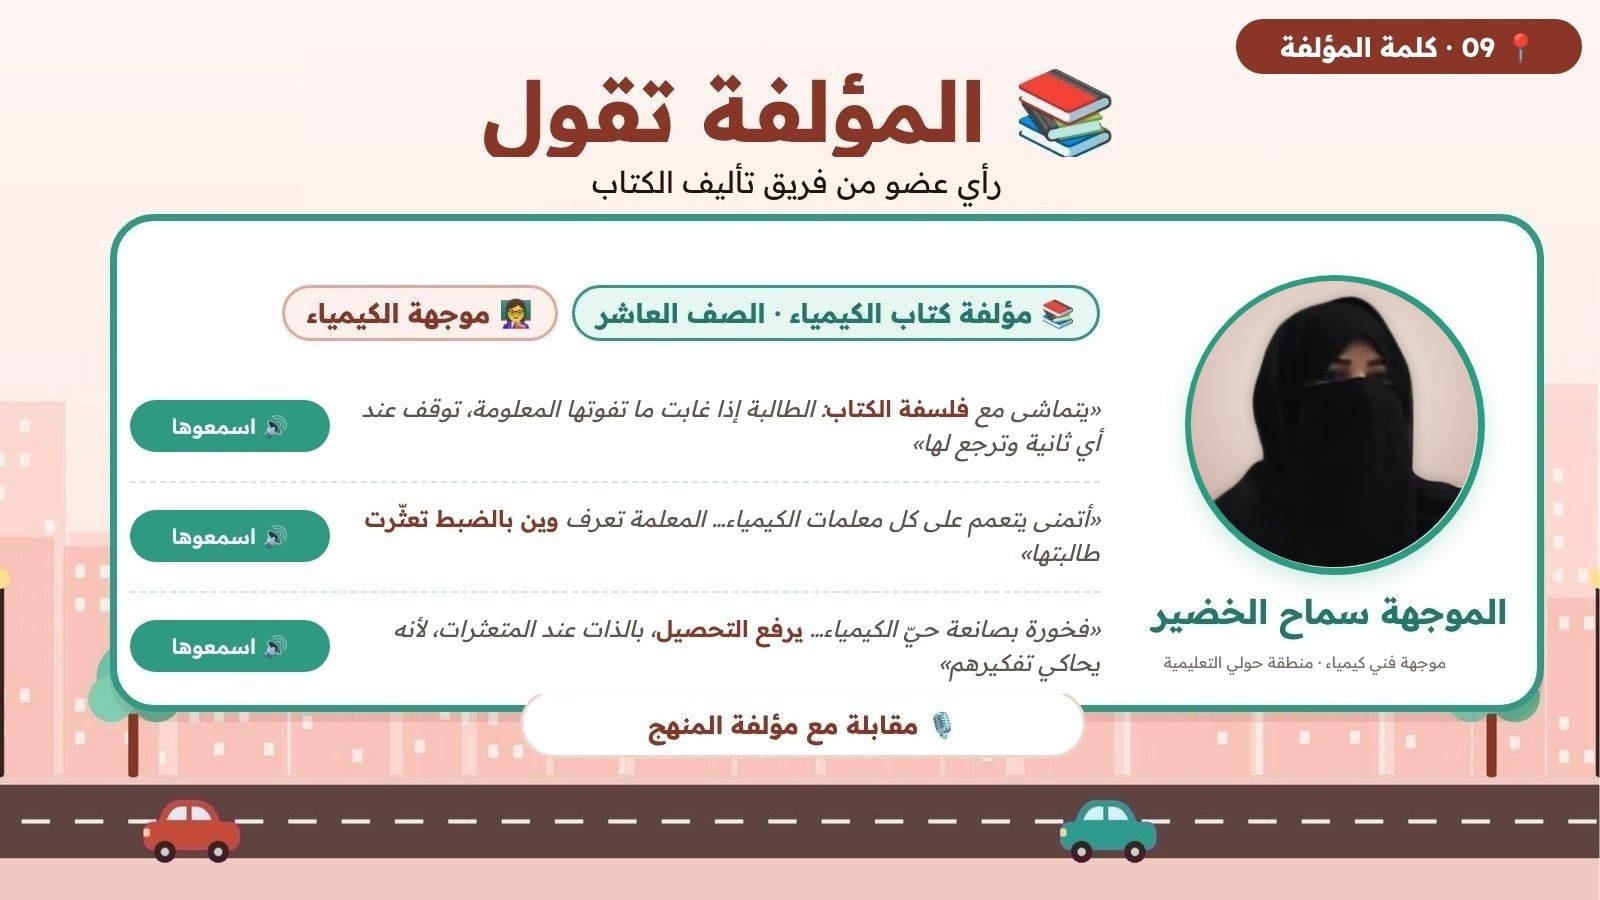
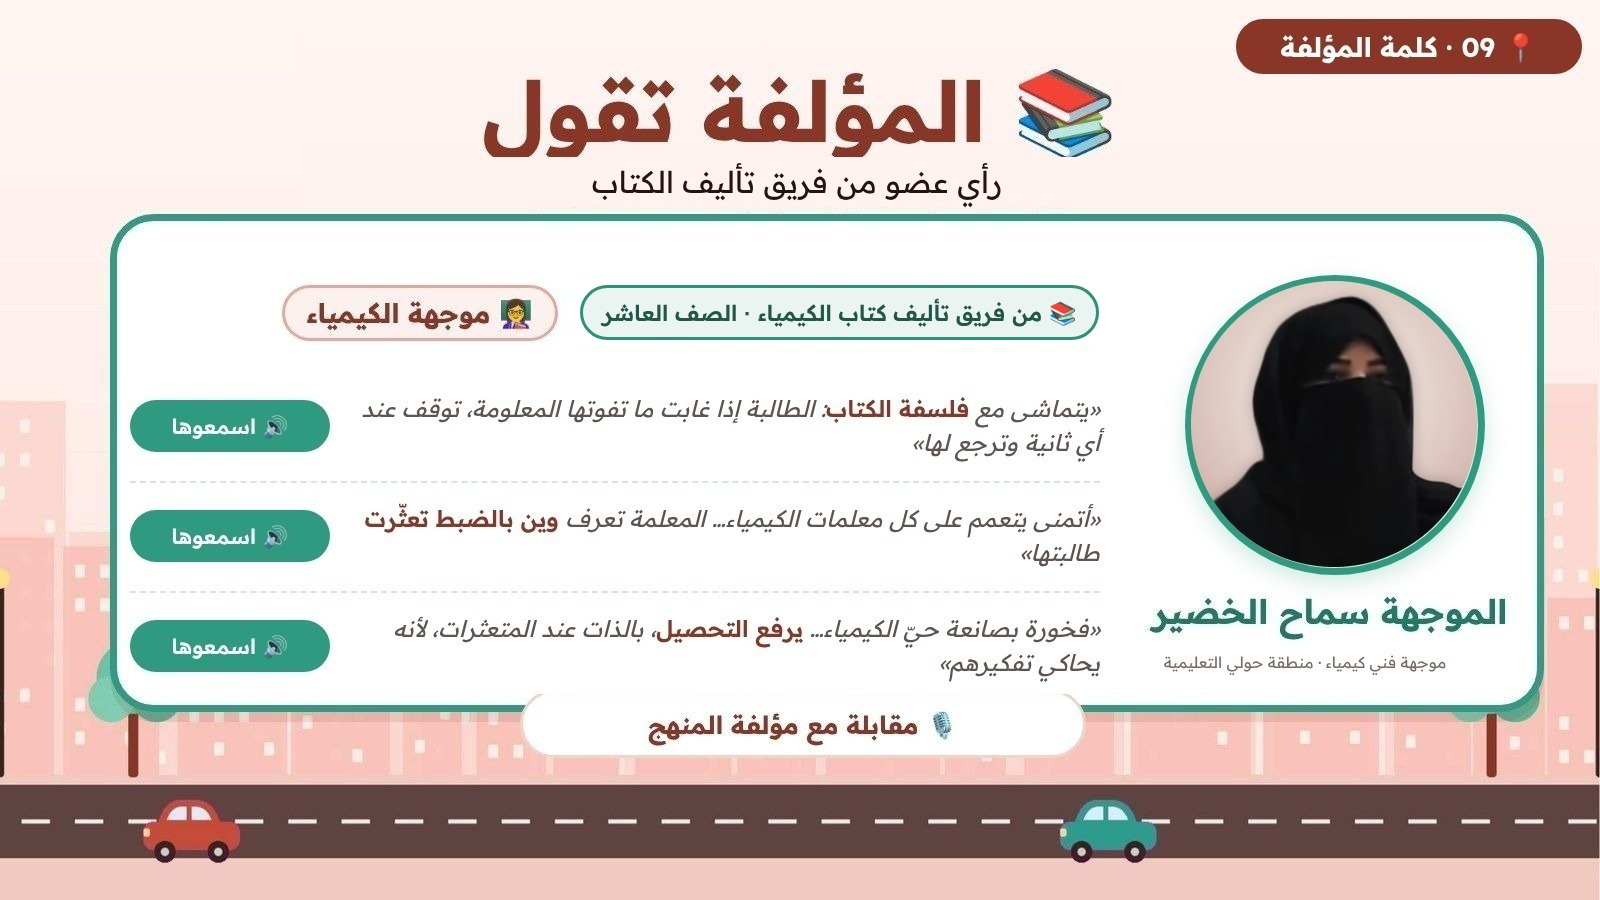
سلايد 9: الشارة «من فريق تأليف كتاب الكيمياء · الصف العاشر»
Claude-Session: https://claude.ai/code/session_017v5M1nMMuuW3eDakFtezuA

Changed region(s): [[0.3438, 0.3111, 0.6875, 0.4044]]

diff --git a/index.html b/index.html
@@ -535,7 +535,7 @@ const CONFIG = {
     back.innerHTML='<div><div class="mbT">حيّ الكيمياء</div><img class="mbLogo" alt="By Afnan"><div class="mbS2">شكراً من القلب 🤍</div></div>';
     h.appendChild(back);
     if(PAD){ var inner=document.createElement('div'); inner.className='page magBack magInner'; inner.innerHTML='<div><img class="mbLogo" alt="By Afnan" style="opacity:.55"></div>'; h.appendChild(inner); }
-    for(var i=N;i>=1;i--){ var pg=document.createElement('div'); pg.className='page'; if(i===1) pg.setAttribute('data-density','hard'); pg.innerHTML='<img src="deck-'+i+'.jpg?v=17" alt="سلايد '+i+'" decoding="async">'; h.appendChild(pg); }
+    for(var i=N;i>=1;i--){ var pg=document.createElement('div'); pg.className='page'; if(i===1) pg.setAttribute('data-density','hard'); pg.innerHTML='<img src="deck-'+i+'.jpg?v=18" alt="سلايد '+i+'" decoding="async">'; h.appendChild(pg); }
     var W=wrap.clientWidth||900, single=W<640;
     var pw=single?Math.min(W,980):Math.floor(Math.min(W,1100)/2);
     book=new St.PageFlip(h,{width:pw,height:Math.round(pw*9/16),size:'fixed',showCover:true,usePortrait:single,maxShadowOpacity:.5,mobileScrollSupport:true,flippingTime:1000,drawShadow:true});

diff --git a/_src/author/s9-pill-final.html b/_src/author/s9-pill-final.html
@@ -1,0 +1,6 @@
+<!doctype html><html dir="rtl" lang="ar"><head><meta charset="utf-8"><style>
+@font-face{font-family:R;font-weight:600;src:url(node_modules/@fontsource/readex-pro/files/readex-pro-arabic-600-normal.woff2)}
+*{margin:0;box-sizing:border-box}html,body{width:1600px;height:900px;background:transparent;font-family:R,'Noto Color Emoji',sans-serif;position:relative}
+.w{position:absolute;left:568px;top:280px;width:540px;height:66px;background:#fff}
+.p{position:absolute;right:501px;top:285px;height:55px;padding:0 20px;border:3px solid #2f8f78;border-radius:28px;background:#eaf5f1;color:#235549;font-weight:600;font-size:22px;display:flex;align-items:center;gap:8px;white-space:nowrap}
+</style></head><body><div class="w"></div><div class="p" id="p">📚 من فريق تأليف كتاب الكيمياء · الصف العاشر</div></body></html>
